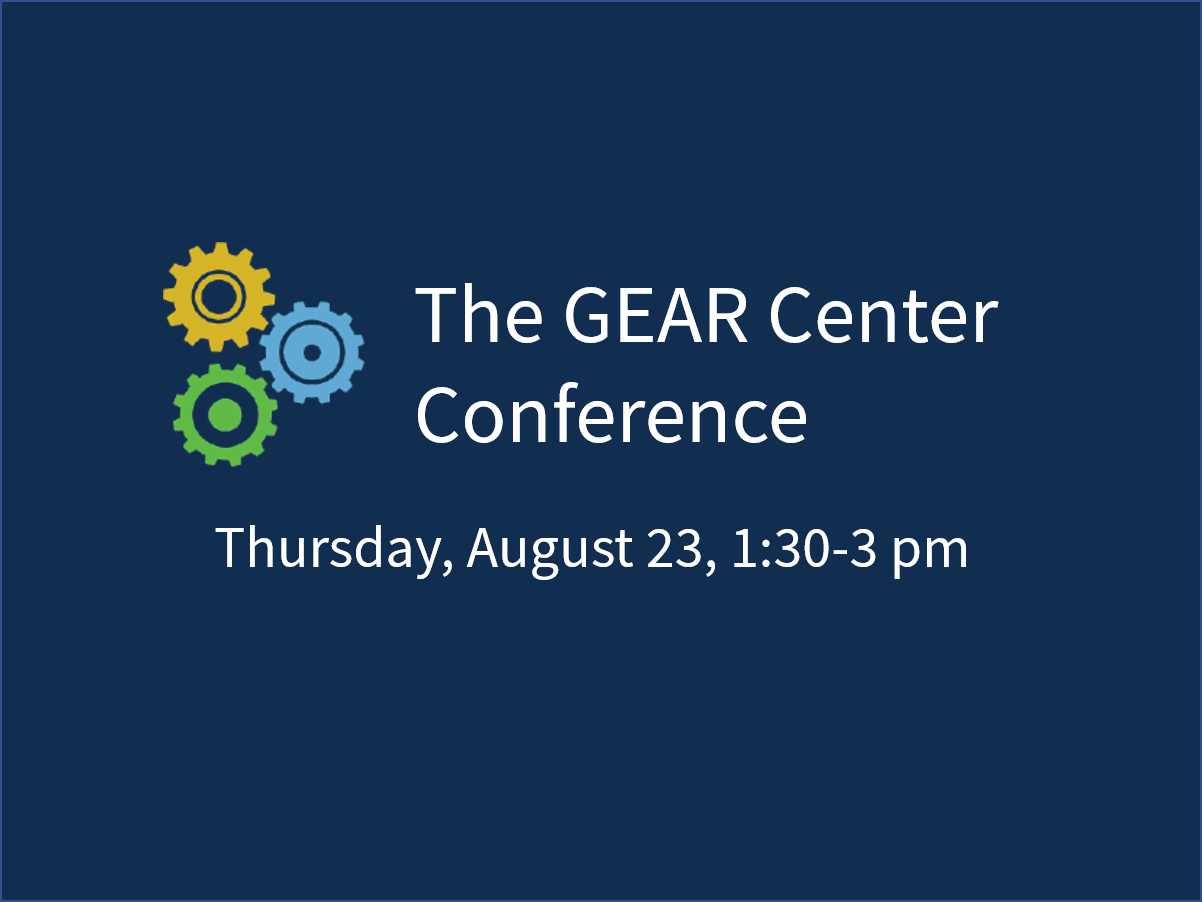
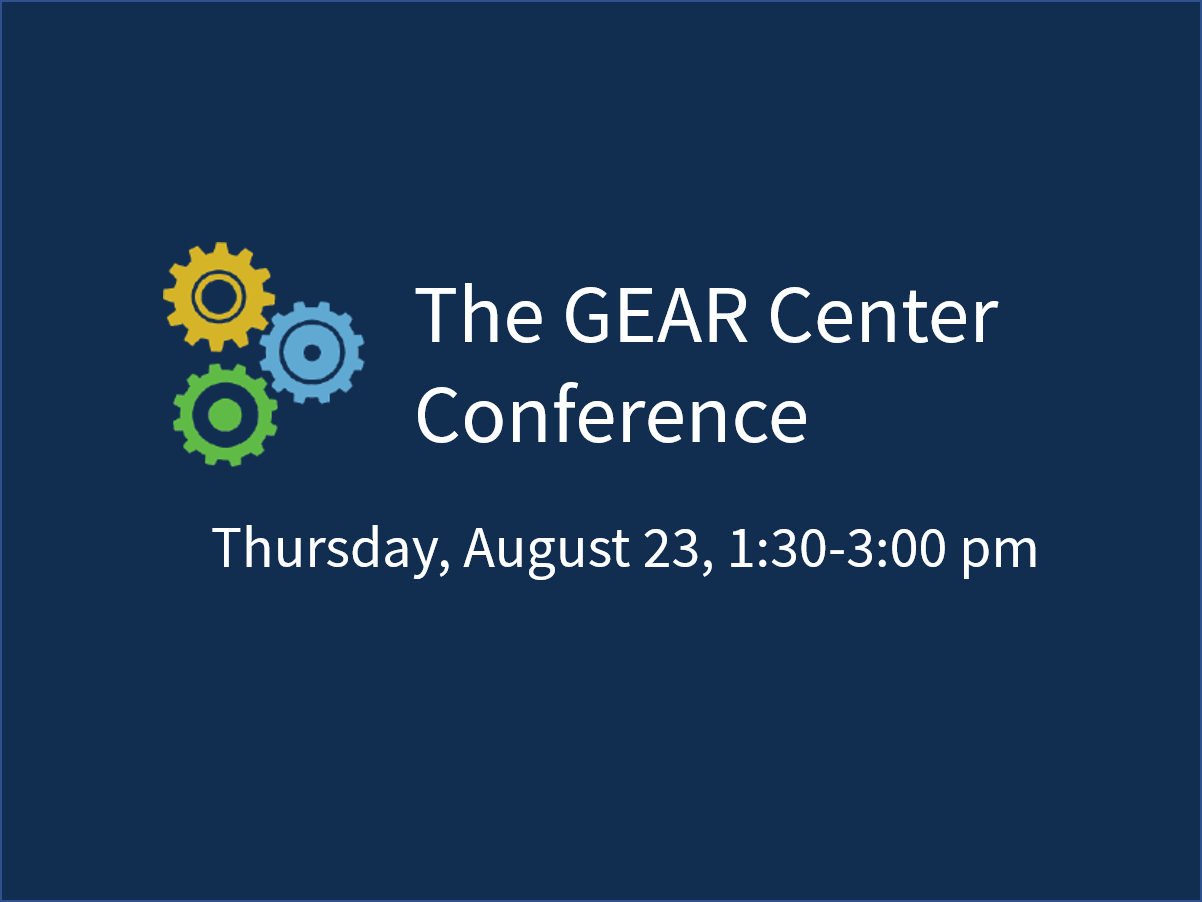
update time

Changed region(s): [[0.1847, 0.5898, 0.8619, 0.6519]]

diff --git a/_posts/2018-08-06-GEAR-center-conference.md b/_posts/2018-08-06-GEAR-center-conference.md
@@ -26,7 +26,7 @@ tags:
 
 ---
 
-Want to learn more about the GEAR Center?  The Government is hosting a GEAR Center virtual conference on Thursday, August 23 1:30-3 pm. The public and any interested parties are invited to participate and to submit advance questions to performance@omb.eop.gov to help inform the Question and Answer period at the conference.  Questions will be received until 5 PM ET on the date of the conference. The government will make available written questions and answers on or about 30 days after the event.  The results of conference discussion, in addition to the written responses to this RFI, will be used to determine next steps in establishing the GEAR Center.
+Want to learn more about the GEAR Center?  The Government is hosting a GEAR Center virtual conference on Thursday, August 23 1:30-3:00 pm. The public and any interested parties are invited to participate and to submit advance questions to performance@omb.eop.gov to help inform the Question and Answer period at the conference.  Questions will be received until 5 PM ET on the date of the conference. The government will make available written questions and answers on or about 30 days after the event.  The results of conference discussion, in addition to the written responses to this RFI, will be used to determine next steps in establishing the GEAR Center.
 
 The conference will be live-streamed and recorded.
 
